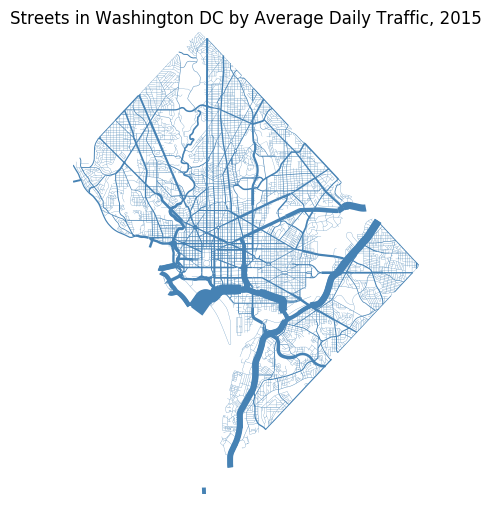
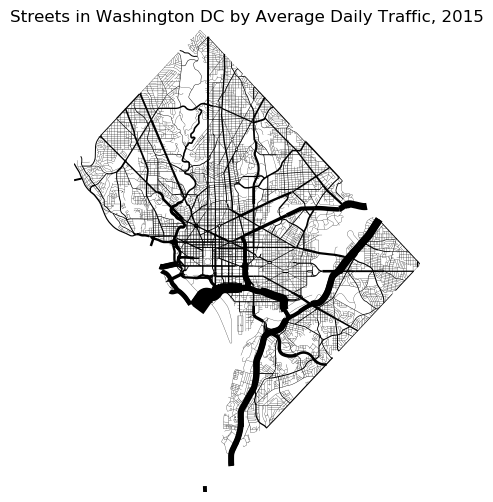
Tweak DC street network example. (#106)

Changed region(s): [[0.0, 0.0, 0.9776, 0.9263], [0.3971, 0.9562, 0.4277, 0.9861]]

diff --git a/docs/examples/dc-street-network.py b/docs/examples/dc-street-network.py
@@ -7,11 +7,8 @@ import matplotlib.pyplot as plt
 dc_roads = gpd.read_file(gplt.datasets.get_path('dc_roads'))
 
 gplt.sankey(
-    dc_roads,
-    path=dc_roads.geometry,
-    projection=gcrs.AlbersEqualArea(),
-    scale='aadt',
-    limits=(0.1, 10)
+    dc_roads, projection=gcrs.AlbersEqualArea(),
+    scale='aadt', limits=(0.1, 10), edgecolor='black'
 )
 
 plt.title("Streets in Washington DC by Average Daily Traffic, 2015")
